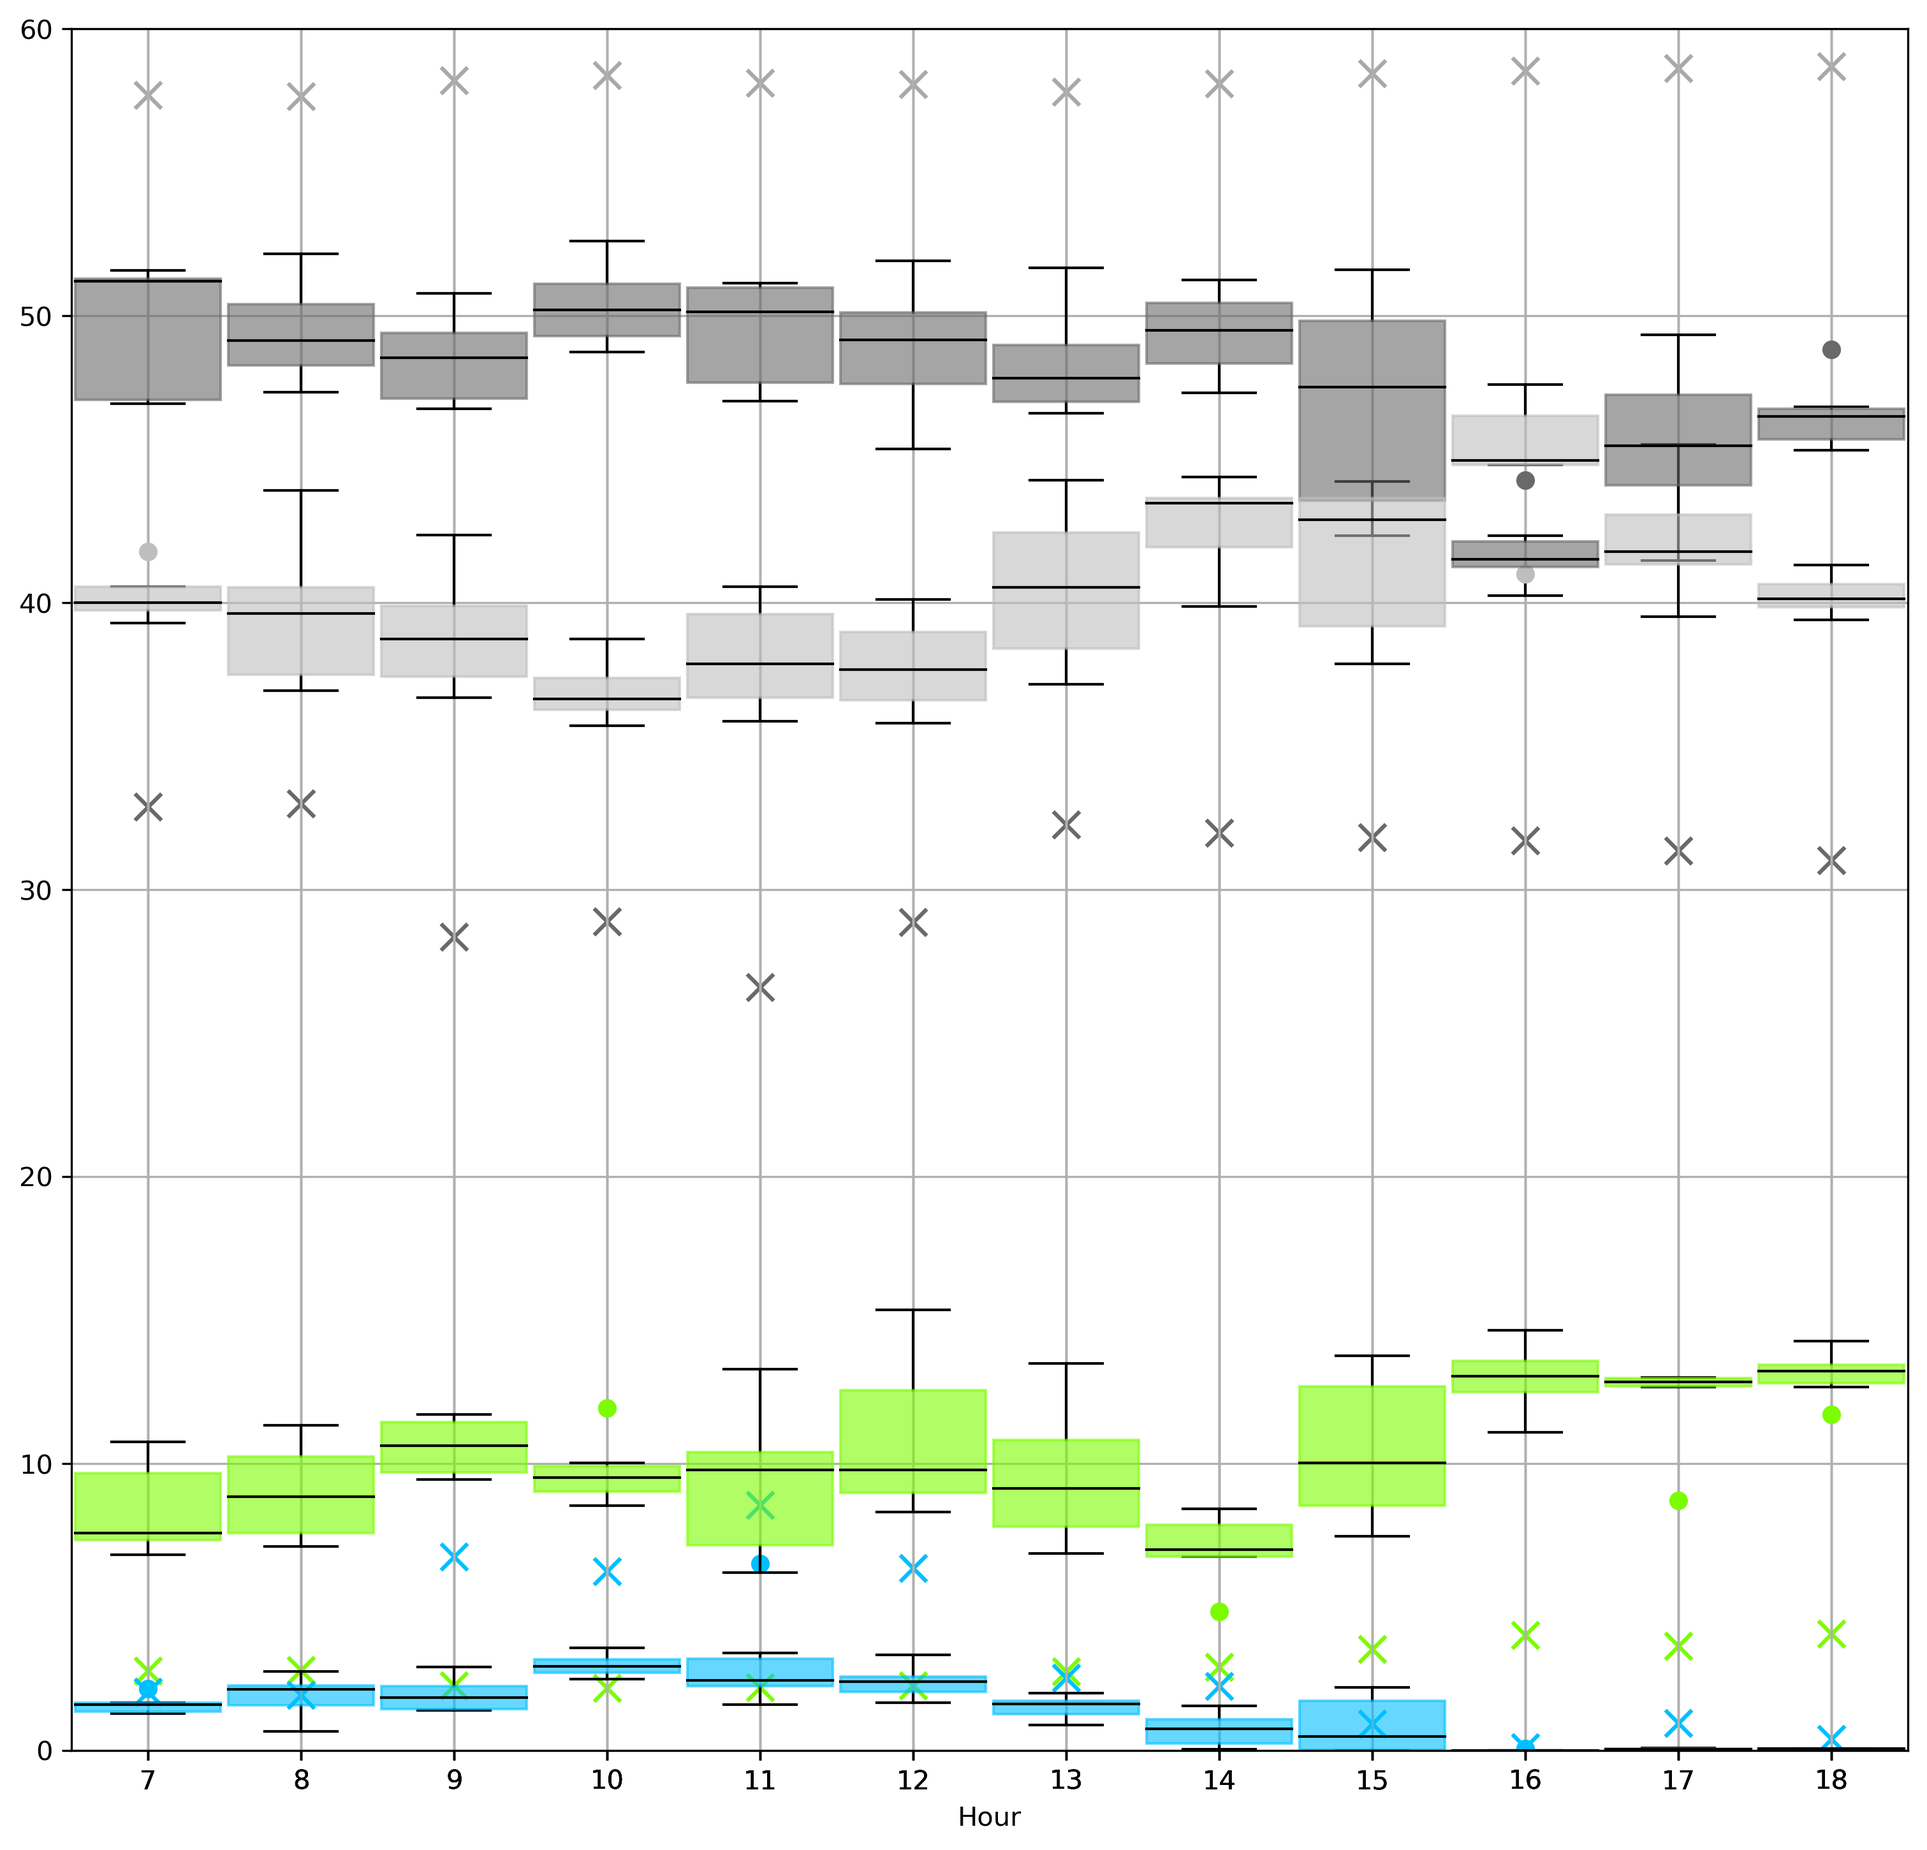
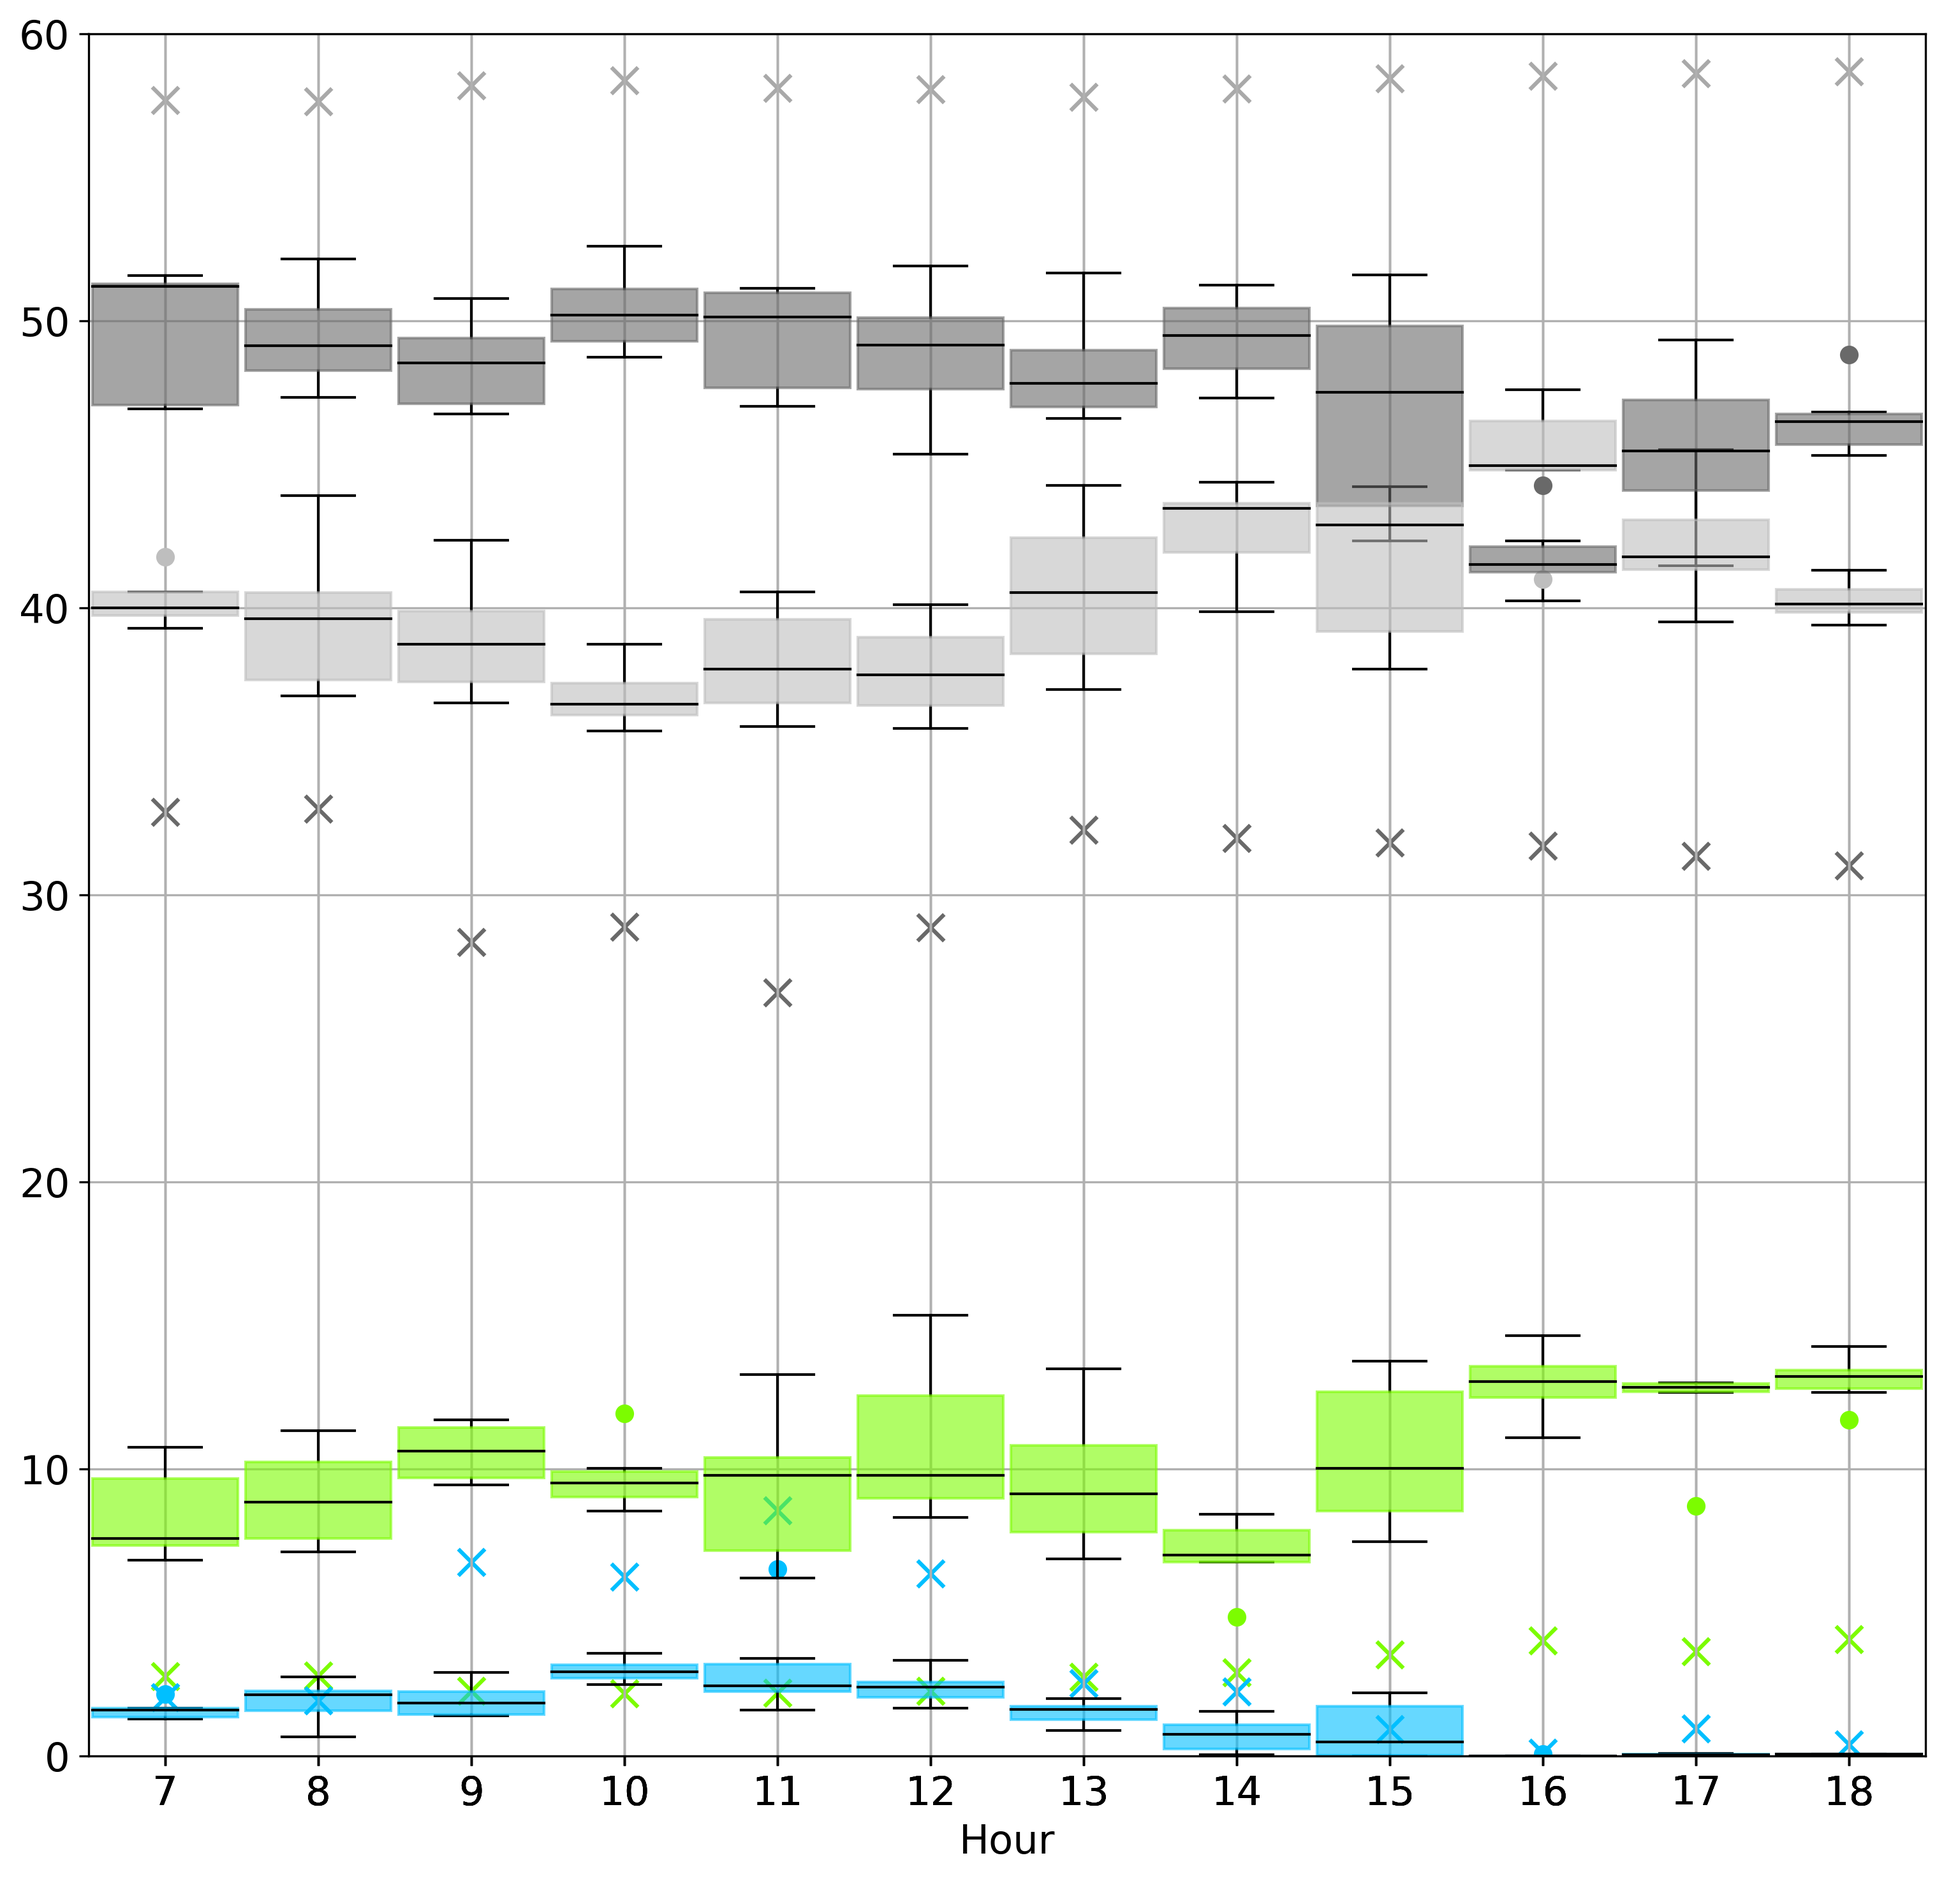
font size

diff --git a/scint_plots/sa_position_and_lc_fraction/main_lc_boxplot.py b/scint_plots/sa_position_and_lc_fraction/main_lc_boxplot.py
@@ -5,7 +5,7 @@ from scint_plots.sa_position_and_lc_fraction import lc_boxplot_funs
 from scint_plots.sa_position_and_lc_fraction import create_sa_lc_csv
 
 # CHOICES
-doy_choice = 126
+doy_choice = 123
 av_period = '10_mins'
 
 save_path = os.getcwd().replace('\\', '/') + '/'

diff --git a/scint_plots/sa_position_and_lc_fraction/lc_boxplot_funs.py b/scint_plots/sa_position_and_lc_fraction/lc_boxplot_funs.py
@@ -1,6 +1,9 @@
 import pandas as pd
 import matplotlib.pyplot as plt
 import matplotlib.patches as mpatches
+import matplotlib as mpl
+
+mpl.rcParams.update({'font.size': 15})
 
 
 def lc_in_sa_stacked_bar(sas_df_in, save_path):
